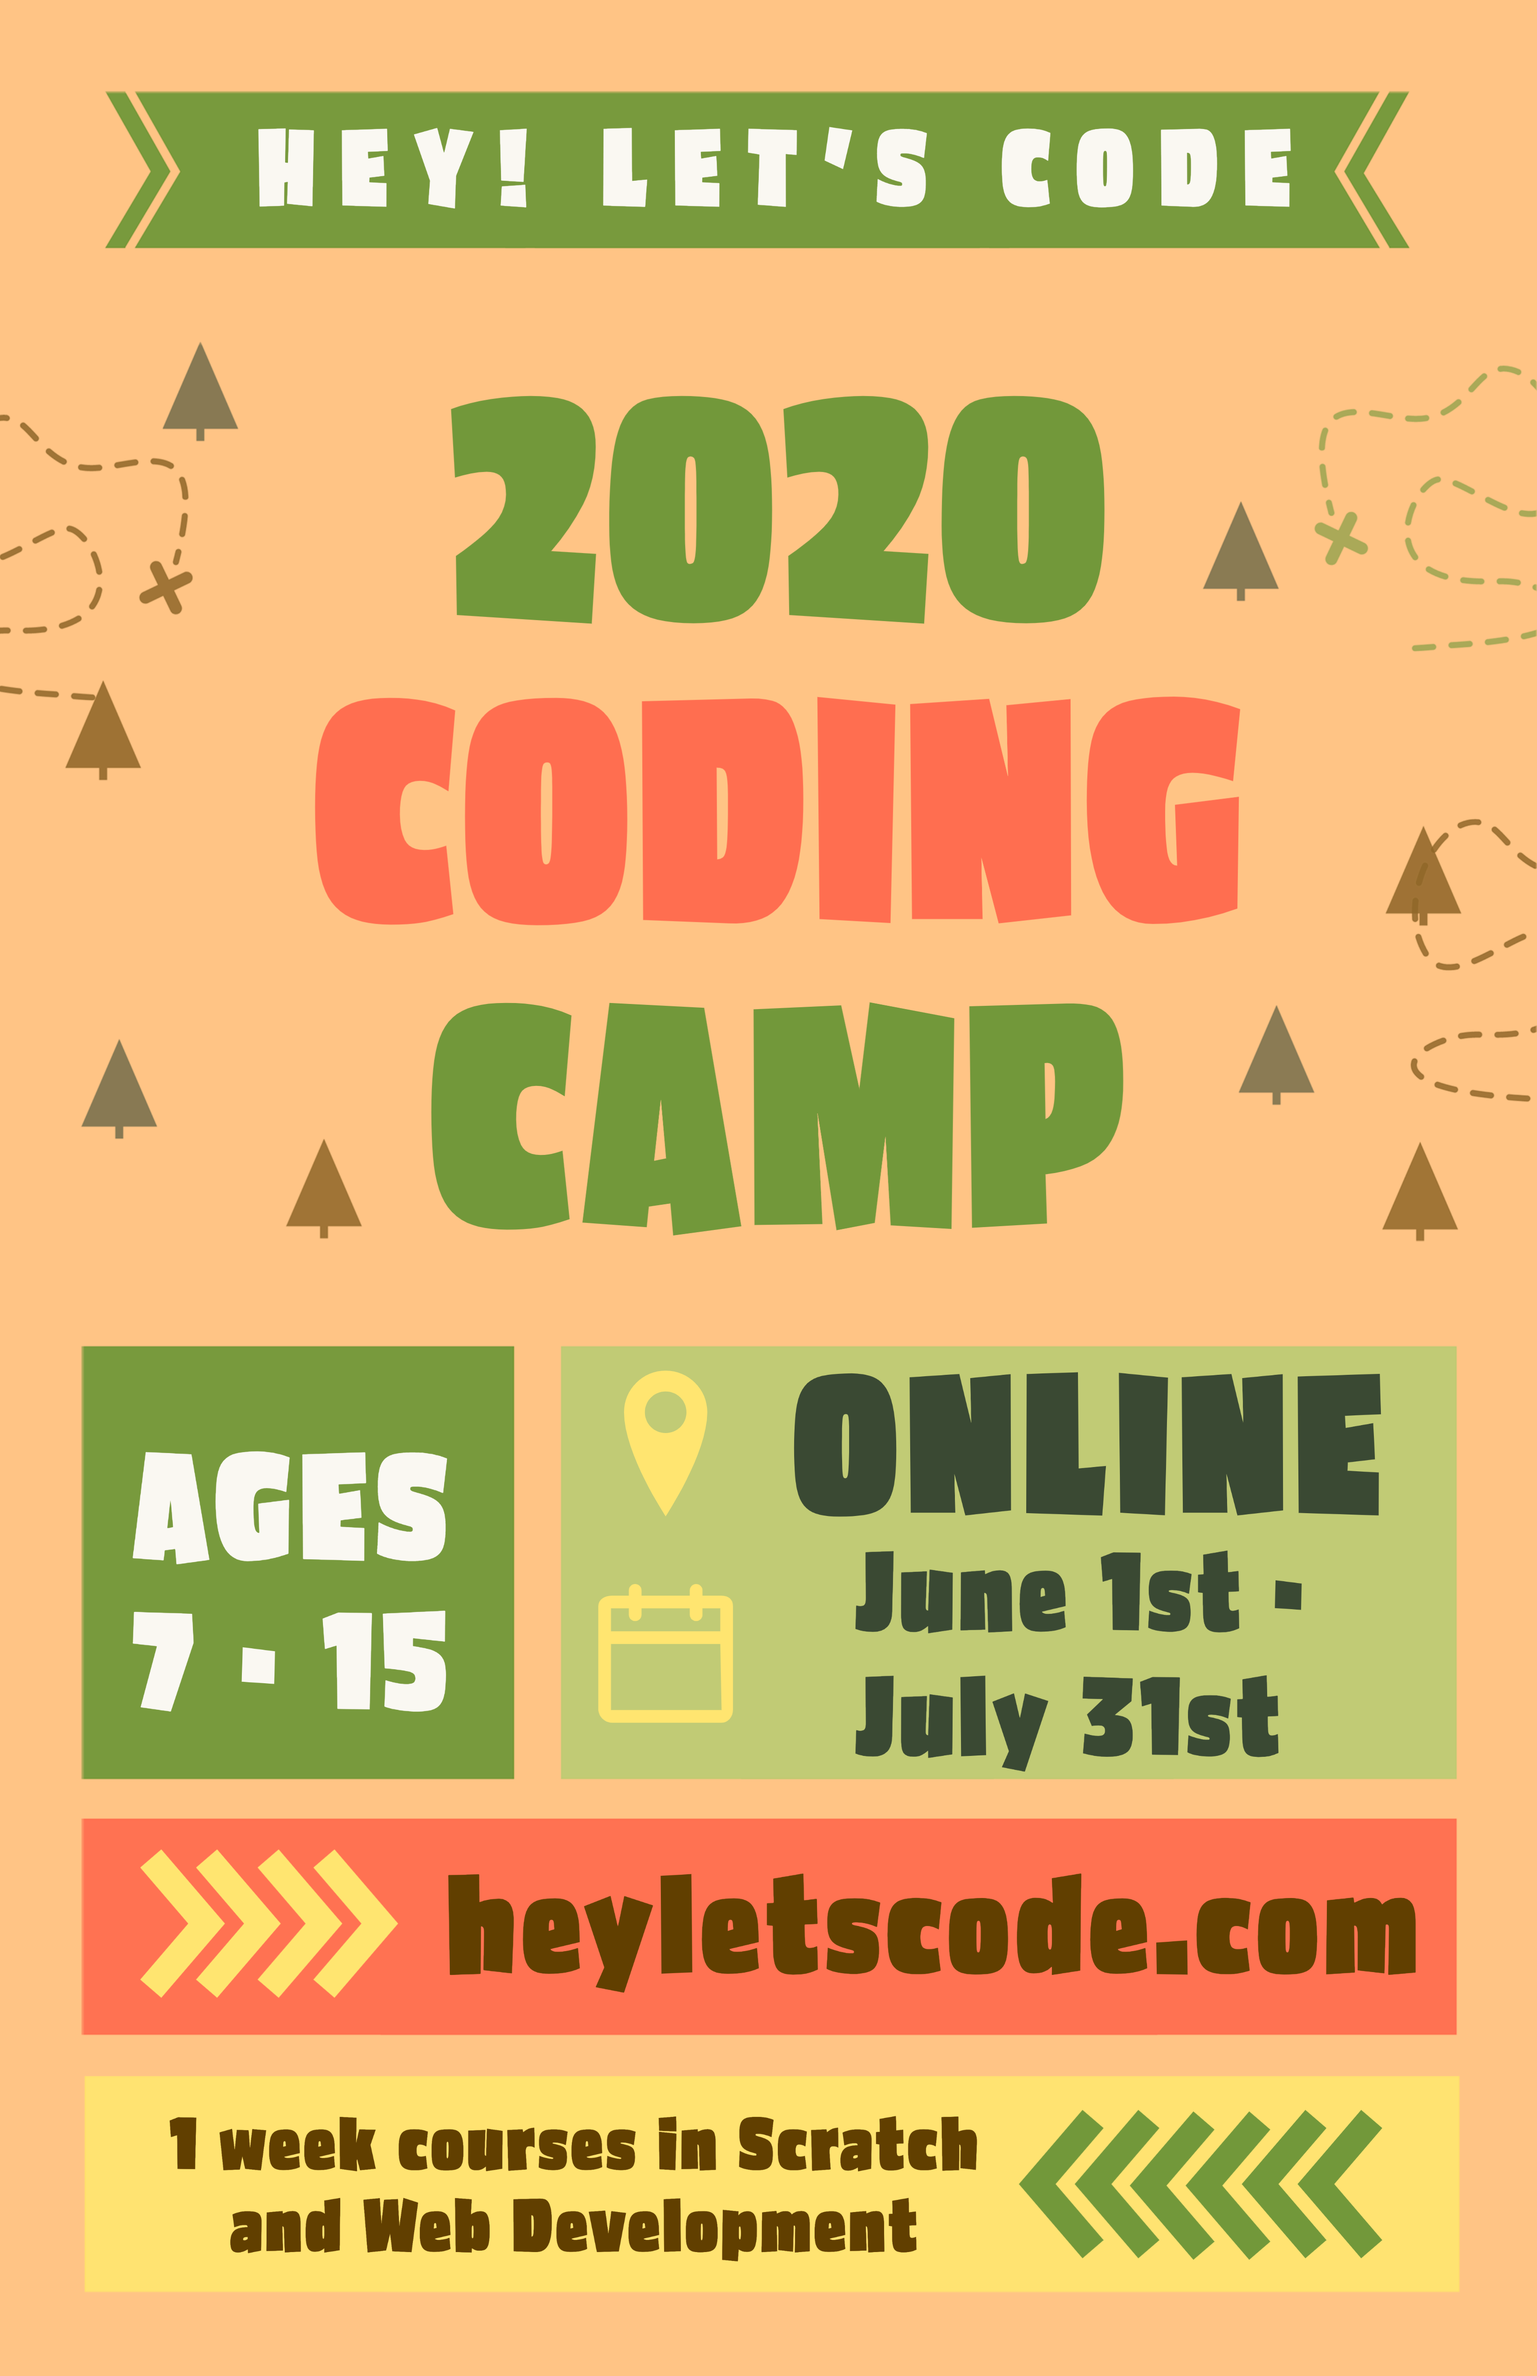
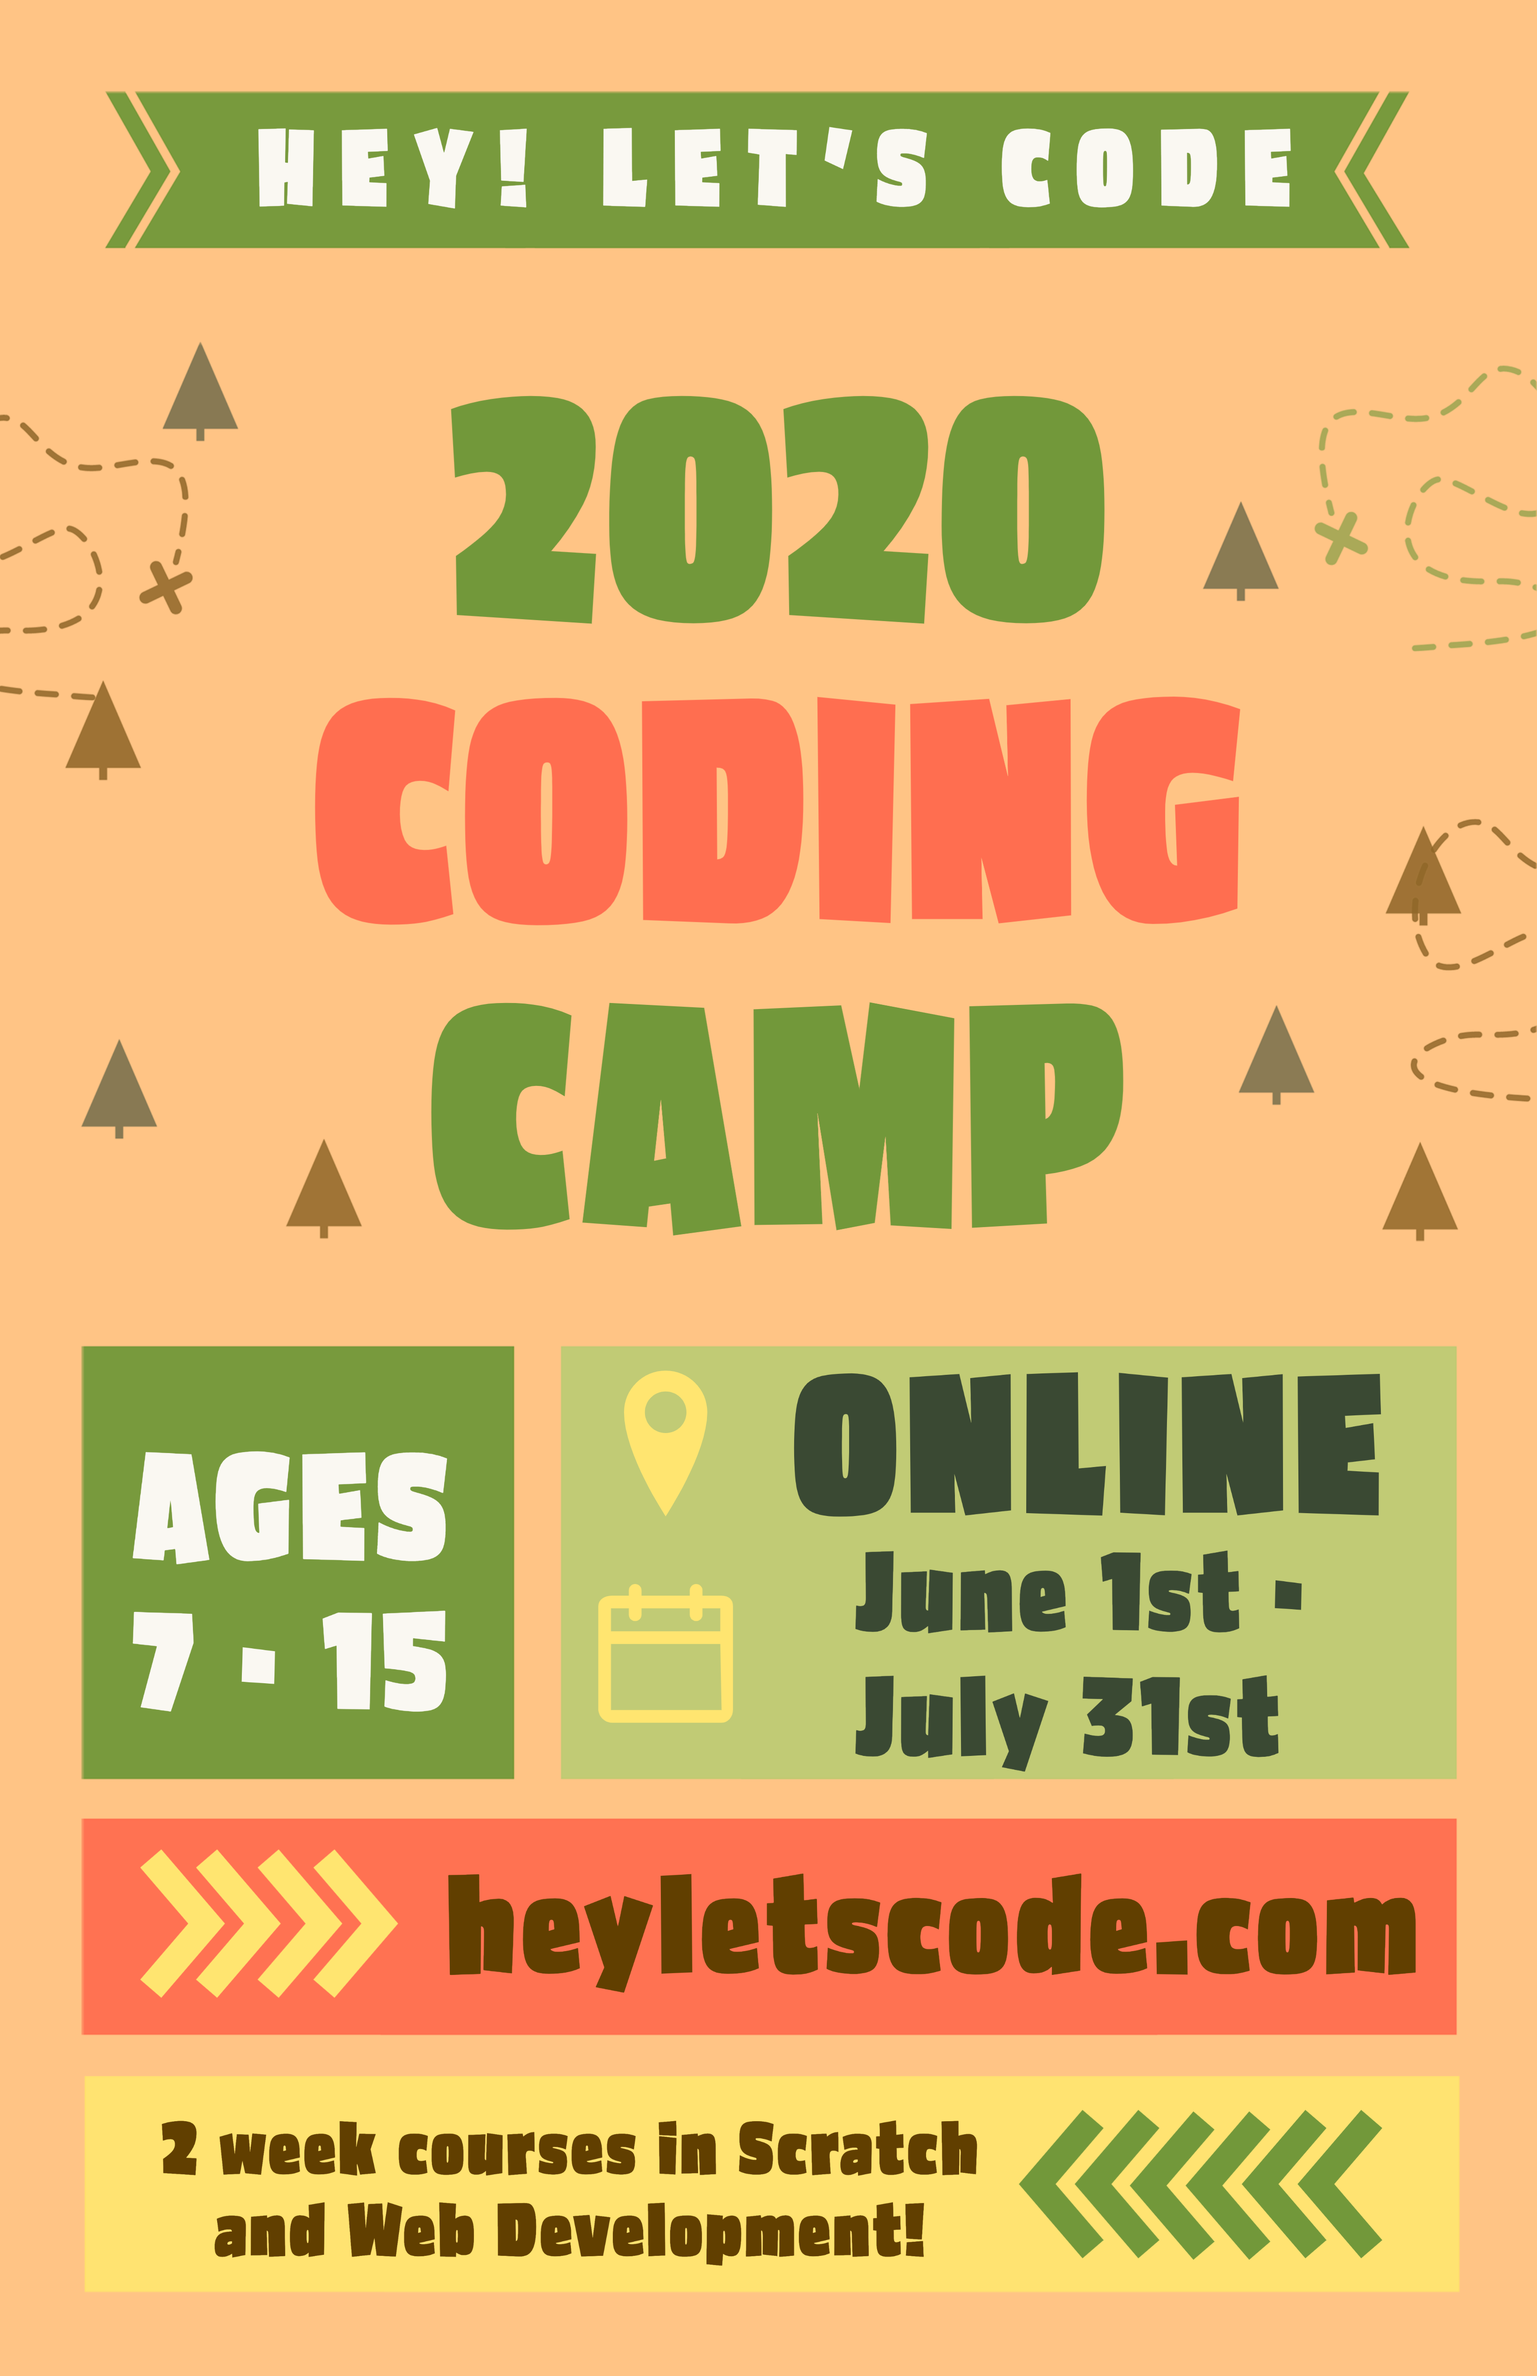
changes
to hoursessions and index to add summer camp back

Changed region(s): [[0.1249, 0.9041, 0.6246, 0.9665], [0.0937, 0.9041, 0.1249, 0.9353]]

diff --git a/index.html b/index.html
@@ -195,10 +195,12 @@ We recognize that each student learns best at their own pace. Camp leaders will 
                             <br>
                                 <br>
                                 <br>
-                            We offer <b>one hour sessions daily</b>, for two weeks!</p>
+                            We offer <b>one hour sessions daily</b>, for two weeks!
+                            <br> OR <br>
+                            We offer a <b>five hour summer camp daily</b>, for one week!</p>
 						</header>
 						<ul class="actions">
-							<li><a href="hoursessions" class="button">Hour Long Classes</a></li>
+							<li><a href="hoursessions" class="button">Our Classes</a></li>
 						</ul>
 					</div>
 					<a href="#table" class="goto-next scrolly">Next</a>
@@ -269,7 +271,7 @@ We recognize that each student learns best at their own pace. Camp leaders will 
 						<header class="major">
 							<h2>Three Simple Steps To Choose Your Package</h2>
                             
-							<p>Costs are $100 for the two weeks (10 total hours)</p>
+							<p>Costs are $100 for the two week daily hour classes (10 total hours) and 250$ for the one week 5 hour a day camp (25 total hours) </p>
 						</header>
 						<div class="box alt">
 							<div class="row gtr-uniform">
@@ -293,10 +295,10 @@ We recognize that each student learns best at their own pace. Camp leaders will 
 								</section>
 								<section class="col-4 col-6-medium col-12-xsmall">
 									<span class="icon solid alt major fa-chart-area"></span>
-									<h3>Choose The Correct Age Group For Your Child</h3>
-									<p>7 to 11 years old
+									<h3>Choose Which Program Type You want</h3>
+									<p>1 hour a day for 2 weeks
                                     <br> OR <br>
-                                        12 to 15 years old
+                                        5 hours a day for 1 week
                                     </p>
                                     
                                     

diff --git a/hoursessions.html b/hoursessions.html
@@ -71,22 +71,33 @@
 											<tr>
  												<td>Scratch</td>
 												<td>June 1st to June 12th</td>
-                                                <td>12PM to 1 PM PST (Monday to Friday )</td>
+                                                <td>12 PM to 1 PM PST (Monday to Friday )</td>
 											</tr>
 											<tr>
  												<td>Web Development</td>
 												<td>June 15th to June 26th</td>
-                                                <td>12PM to 1 PM PST (Monday to Friday )</td>
+                                                <td>12 PM to 1 PM PST (Monday to Friday )</td>
 											</tr>
+                                            <tr>
+ 												<td>Hey! Let's Code All Day Camp</td>
+												<td>June 29th to July 3rd</td>
+                                                <td>10 AM to 3 PM PST (Monday to Friday)</td>
+											</tr>
+                                            
                                             <tr>
  												<td>Scratch</td>
 												<td>July 6th to July 17th</td>
-                                                <td>12PM to 1 PM PST (Monday to Friday )</td>
+                                                <td>12 PM to 1 PM PST (Monday to Friday )</td>
 											</tr>
                                             <tr>
  												<td>Web Development</td>
 												<td>July 20th to July 31st</td>
-                                                <td>12PM to 1 PM PST (Monday to Friday )</td>
+                                                <td>12 PM to 1 PM PST (Monday to Friday )</td>
+											</tr>
+                                            <tr>
+ 												<td>Hey! Let's Code All Day Camp</td>
+												<td>August 3rd to August 7th</td>
+                                                <td>10 AM to 3 PM PST (Monday to Friday)</td>
 											</tr>
                                         
 
